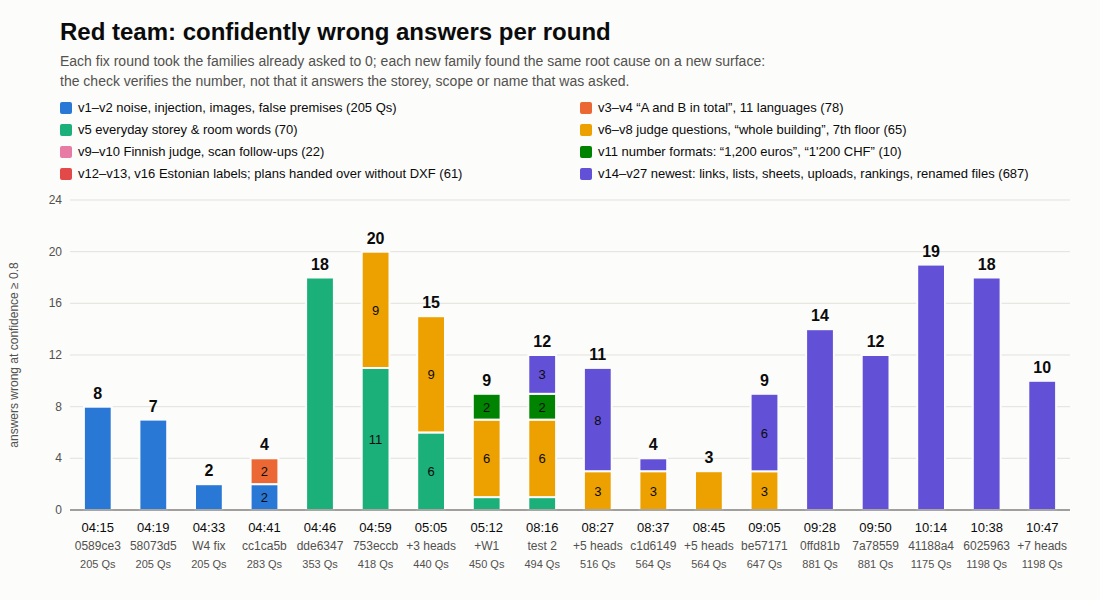
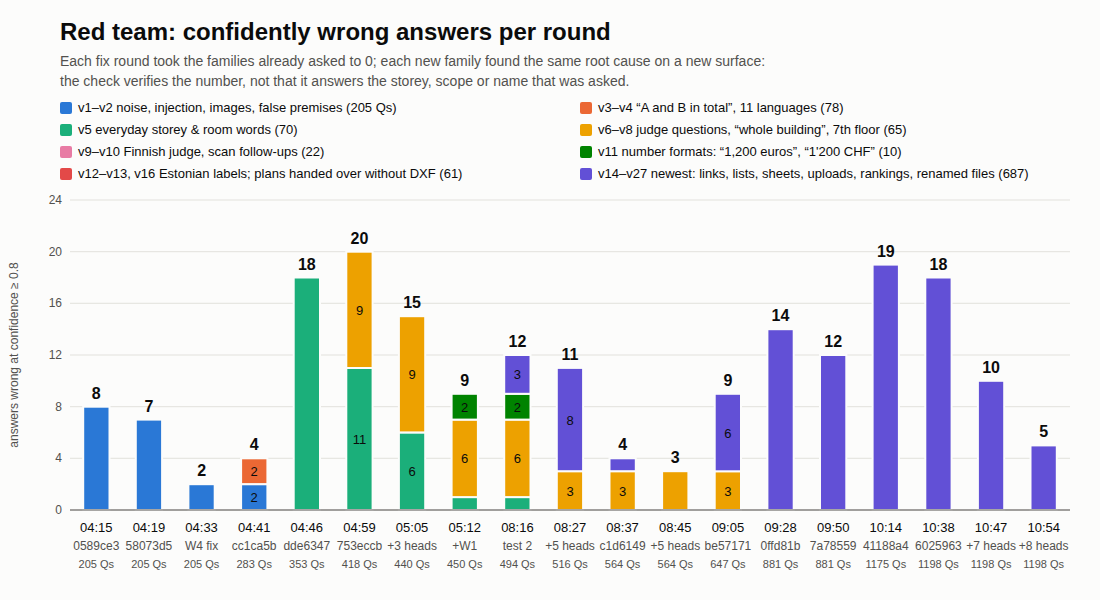
Q: pre-merge check #11 (every head of 10:54: 11 W 1 L vs 6025963, nothing lost at >=0.8; newest-family confident misses 18 -> 5); chart + DEMO line

Changed region(s): [[0.0618, 0.39, 0.9891, 0.96], [0.0618, 0.63, 0.0927, 0.66]]

diff --git a/experiments/q/plot_rounds.py b/experiments/q/plot_rounds.py
@@ -12,7 +12,7 @@ SIZES = [205, 78, 70, 65, 22, 10, 61, 687]  # v22: 140 upload rows (its 76 datas
 ROUNDS = [("04:15", "0589ce3"), ("04:19", "58073d5"), ("04:33", "W4 fix"), ("04:41", "cc1ca5b"), ("04:46", "dde6347"),
           ("04:59", "753eccb"), ("05:05", "+3 heads"), ("05:12", "+W1"),
           ("08:16", "test 2"), ("08:27", "+5 heads"), ("08:37", "c1d6149"), ("08:45", "+5 heads"), ("09:05", "be57171"),
-          ("09:28", "0ffd81b"), ("09:50", "7a78559"), ("10:14", "41188a4"), ("10:38", "6025963"), ("10:47", "+7 heads")]
+          ("09:28", "0ffd81b"), ("09:50", "7a78559"), ("10:14", "41188a4"), ("10:38", "6025963"), ("10:47", "+7 heads"), ("10:54", "+8 heads")]
 ASKED = {7: 450, 8: 494, 9: 516, 10: 564, 11: 564, 12: 647, 13: 881, 14: 881, 15: 1175}  # rounds that asked only part of a family (08:16: v14 without v15)
 DATA = [[8, None, None, None, None, None, None, None], [7, None, None, None, None, None, None, None],
         [2, None, None, None, None, None, None, None], [2, 2, None, None, None, None, None, None],
@@ -23,7 +23,8 @@ DATA = [[8, None, None, None, None, None, None, None], [7, None, None, None, Non
         [0, 0, 0, 0, 0, 0, 0, 12],  # 7a78559: v21 2 + v22 uploads 7 (6 PNG, 1 plan w/o IFC) + v23 3 links (storey roles fixed)
         [0, 0, 0, 0, 0, 0, 0, 19],  # 41188a4 (experiments/q/bar_count.py): v21 1, v22 6+1, v23 3, v25 6 rankings, v26 3 renamed-file links
         [0, 0, 0, 0, 0, 0, 0, 18],  # 6025963: v22 6, v25 4, v27 5 (4 relative storeys, 1 two-part), v26 3
-        [0, 0, 0, 0, 0, 0, 0, 10]]  # pre-merge #10 (+W1 bbd2544, W4 c2b0fad, R1 c8d67d0, …): v22 4, v27 4 relative storeys, v25 2
+        [0, 0, 0, 0, 0, 0, 0, 10],  # pre-merge #10 (+W1 bbd2544, W4 c2b0fad, R1 c8d67d0, …): v22 4, v27 4 relative storeys, v25 2
+        [0, 0, 0, 0, 0, 0, 0, 5]]  # pre-merge #11 (every head of 10:54): v22 3, v27 'directly above' 1, v25 agent 297 1
 W, H = 1100, 600
 L, R, T, B = 70, 30, 200, 90          # plot margins
 YMAX = 24

diff --git a/redteam/REPORT.md b/redteam/REPORT.md
@@ -6,7 +6,11 @@ Builds on F's `hard` (translations/paraphrases/compositions/ft²) and `hard2` (n
 don't. The first 205 rows start from dev questions the pipeline had **right at conf ≥ 0.8**, so a failure there is
 caused by the perturbation, not by the drawing.
 
-## Now (10:54) — the short version
+## Now (11:03) — the short version
+- **Pre-merge check #11 (every owner head of 10:54, the candidate for S0's 11:15 merge): 11 won / 1 lost vs night
+  6025963 (the loss: a LoRA flip at 0.37), v1–v18 396/396 at ≥ 0.8, 0 false premises, 1015 rows 602/611; the newest
+  families' confident misses 18 → 5** (relative storeys fixed except "directly above"; 3 CubiCasa uploads; one agent
+  confidence bug).
 - **Pre-merge check #10 (10:47, all owner heads on 6025963 — what S0 merges at 11:15): 4 won / 1 lost (0.50), v1–v18
   398/398 at ≥ 0.8, renamed-file IFC rows 240/251 with kg_qa answering again (2 → 27); confident misses on the newest
   families 18 → 10** (left: relative storeys ×4 — bug 28, CubiCasa uploads ×4, one ranking, one agent flake).
@@ -971,6 +975,16 @@ v21 "3rd floor level" (21.92 at 0.85 → 22'-5" at 0.65), the plan-without-IFC "
 201/210), 3 won / 0 lost — still 2 link answers of the wrong shape on hashed names ("Is the door count … the same …?"
 → 50 at 0.97; Italian "Quante finestre … non sono disegnate …?" → 55 at 0.88), both caught by W4's 87eaf64 shape guard
 or not (pre-merge check #10 below).
+
+## Pre-merge check #11 (10:54): 6025963 + every owner head of 10:54 (W1 2ac850e, W2 ea0e1a8, W3 9b1abd3, W4 f4724ed, R1 891f4a2, R2 9b1abd3, F c850a6a, W5 9521587)
+Merged one by one (an 8-head octopus fails: "cannot read more than 8 trees"). Runs `20261114-105439-pipeline-all-snap12-e712`
+(1015 rows) + `-105439-…-v26_hash-snap12-5889`. **vs #10 8 won / 1 lost (a LoRA flip at 0.37), vs 6025963 11 won / 1
+lost; v26 2 won / 0 lost. v1–v18 396/396 at ≥ 0.8 right, 0 false premises; 1015 rows 602/611 — nothing lost at ≥ 0.8.**
+Bar 10 → 5. Bug 28 fixed (W1 82dc141): "doors on the floor above this one" → 42 at 0.98, "walls on the floor below this
+one" → 81, "doors on the floor below this one" → 0 at 0.42 (the foundation); IT "Quale piano …" → Piano 1 at 0.75 (W1
+2ac850e); "Which floor has the biggest room?" → 1.korrus at 0.86; "Are fewer doors drawn here …?" → no (kg_qa); the
+two-part "storey + windows" → "1.korrus; 55". Left at ≥ 0.8: 3 CubiCasa upload rows (bug 26), "How many windows does
+the storey *directly* above this one have?" → 55 at 0.88 (W1, told 11:03), and the agent's 297 at 0.95 (W4).
 
 ## Pre-merge check #10 (10:47): 6025963 + W1 bbd2544 + W2 19c25d4 + W3 88eb185 + W4 c2b0fad + R1 c8d67d0 + R2 d6ce0dd + F 8aef6b2
 Scratch snapshot, all 1015 rows v1–v27 (`20261114-104643-pipeline-all-snap11-83bd`) + v26 hashed

diff --git a/demo/DEMO.md b/demo/DEMO.md
@@ -93,14 +93,14 @@ headless chromium, numbers from `redteam/REPORT.md`). **Say only this (≈ 22 s,
 > "We tried to break it ourselves: over a thousand adversarial questions — rewordings, nine languages, rotated scans,
 > rooms that don't exist, renamed files, a judge's own upload. Every confident mistake had one cause: we checked the
 > number, not that it answered what was asked. Each bar is a round of fixes; the tall ones on the right are this
-> morning's new attacks. On the first 600, all 398 confident answers are right — and it never just refuses."
+> morning's new attacks. On the first 600, all 396 confident answers are right — and it never just refuses."
 (The bars from 09:28 on count only the newest families — uploads, links, lists, rankings, renamed files, relative
-storeys — on builds where every older family is at 0: 14 / 12 / 19 / 18, then 10 with the 10:47 owner heads. The 10
-left: "the floor above this one" (4, W1), CubiCasa uploads (4), one ranking, one agent flake. Redraw after the final
+storeys — on builds where every older family is at 0: 14 / 12 / 19 / 18, then 10 and 5 with the 10:47 / 10:54 owner
+heads. The 5 left: CubiCasa uploads (3), "the storey *directly* above this one" (1), one agent confidence bug (1). Redraw after the final
 build: `python3 experiments/q/bar_count.py MAIN_RUN [V27_RUN] --v26 V26_RUN` gives the bar.)
-(Numbers by stage build — say the line for the build on stage: **the 11:15 merge of the 10:47 heads (pre-merge #10):
-"… all 398 confident answers are right, and no confident answer to a trick question"** (run
-`…-104643-…-all-snap11-83bd`; 433 of 433 on v1–v20); night 6025963: "… all 402" (`…-103834-…-all-6025963-f05a`);
+(Numbers by stage build — say the line for the build on stage: **the 11:15 merge of the 10:54 heads (pre-merge #11):
+"… all 396 confident answers are right, and no confident answer to a trick question"** (run
+`…-105439-…-all-snap12-e712`; 431 of 431 on v1–v20); pre-merge #10: "… all 398"; night 6025963: "… all 402" (`…-103834-…-all-6025963-f05a`);
 41188a4: "… all 379"; **7a78559 (09:50): "… all 378"** (run `…-094023-…-all-7a78559-2466`; 413 of 413 on
 v1–v20); 0ffd81b: "… all 364" (run `…-092751-…-all-0ffd81b-ba15`); be57171 / 31397eb: "609 … all 360"; bb94fe4 (test 2):
 "494 … 283 of 290"; c1d6149: "564 … 338 of 339"; 62754aa: "609 … 337 of 339". "Never just refuses": 0 of 647
